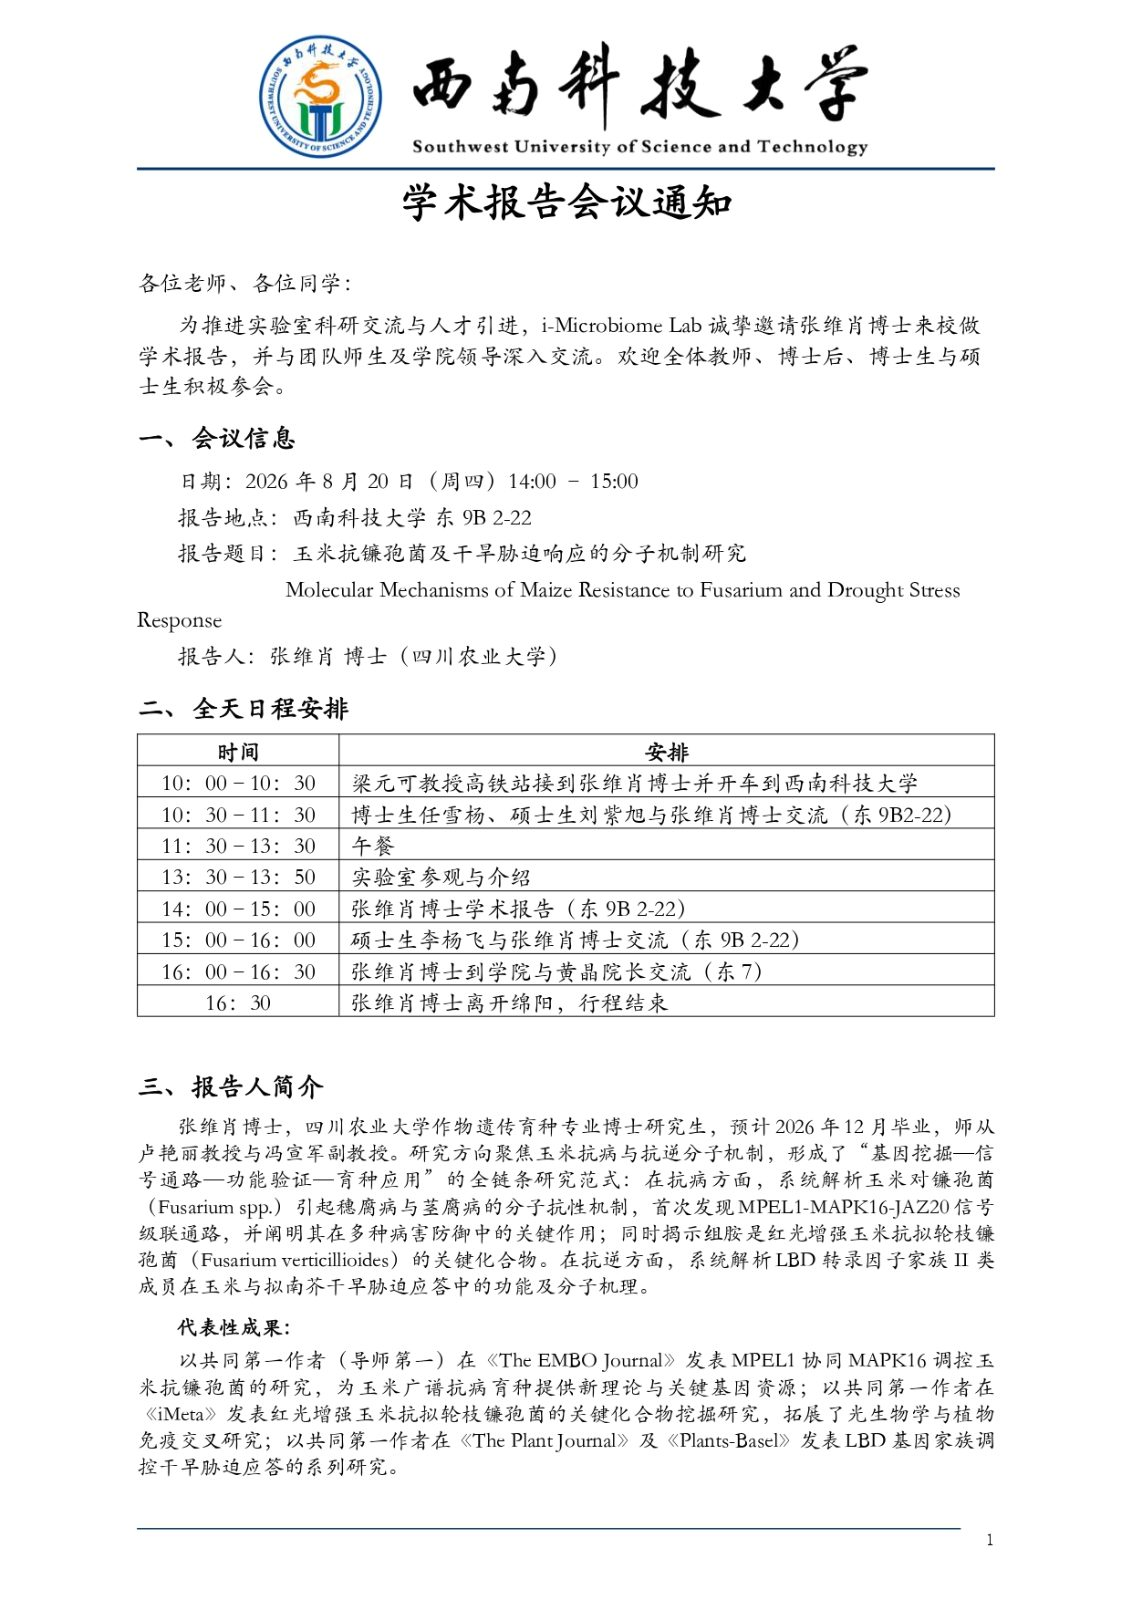
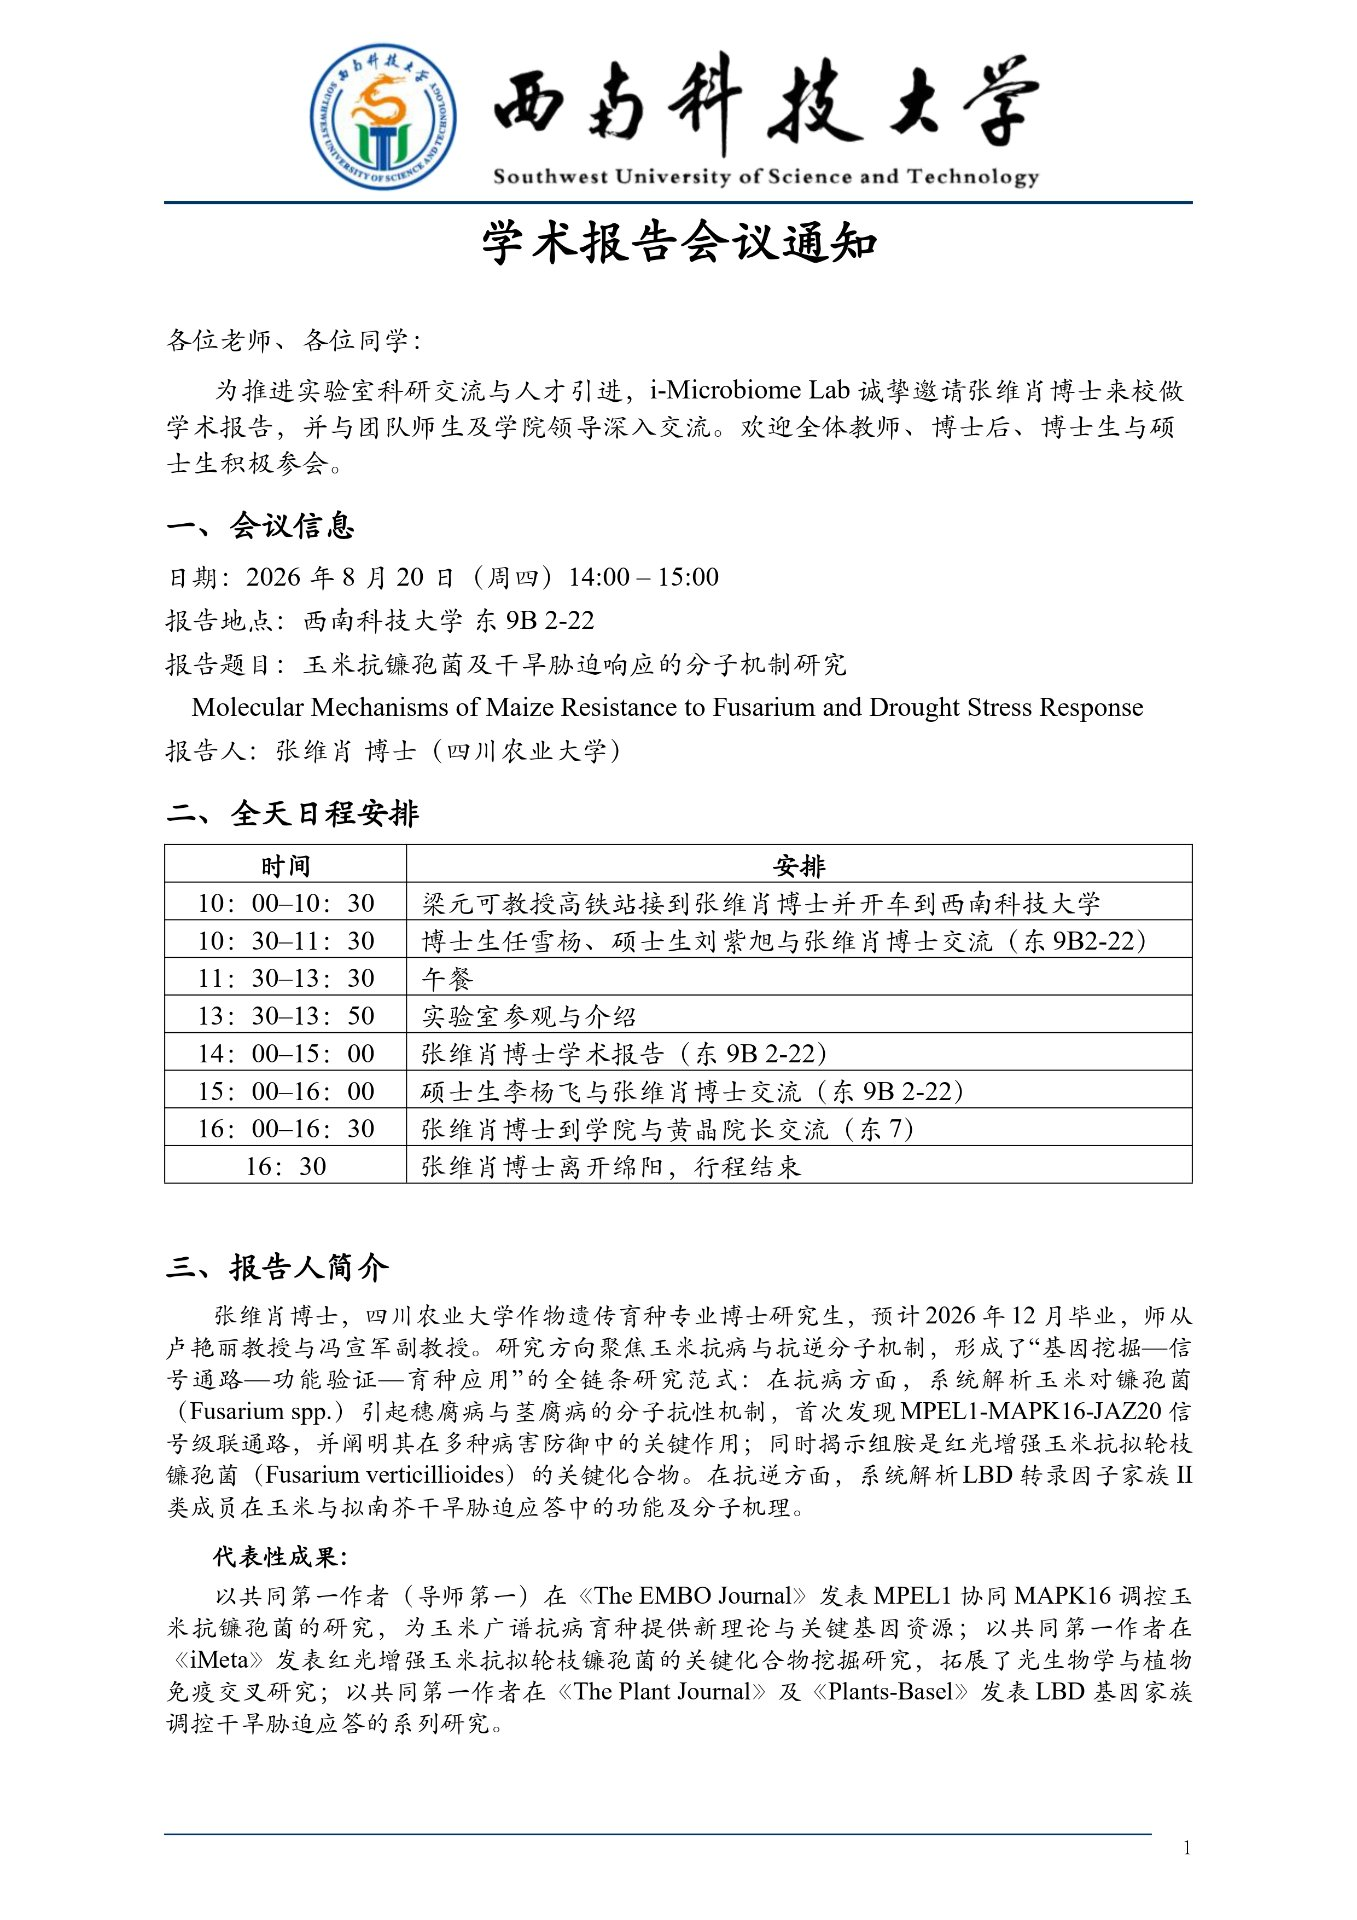
site: 替换张维肖博士学术报告通知图片（正确版），v20260806a

diff --git a/news/n-1785760692443.html b/news/n-1785760692443.html
@@ -8,7 +8,7 @@
 <meta property="og:site_name" content="智能微生态与生物制造实验室">
 <meta property="og:title" content="【学术预告】四川农业大学张维肖博士学术报告会">
 <meta property="og:description" content="一、活动主旨 为推进实验室科研交流与人才引进工作，i-Microbiome Lab 诚挚邀请四川农业大学张维肖博士来校开展学术报告，并与课题组师生、学院领导开展深度交流。诚邀全校教师、博士后、博士研究生与硕士研究生到场参会交流。 二、会议核…">
-<meta property="og:url" content="https://liang-lab.cn/news/n-1785760692443.html?v=20260806174840">
+<meta property="og:url" content="https://liang-lab.cn/news/n-1785760692443.html?v=20260806181145">
 <meta property="og:image" content="https://liang-lab.cn/images/news/n-1785760692443-1.jpg">
 <meta name="twitter:card" content="summary_large_image">
 <meta name="twitter:title" content="【学术预告】四川农业大学张维肖博士学术报告会">
@@ -104,7 +104,7 @@
     document.title=(l==="zh"?ZH_TITLE:EN_TITLE)+" | 智能微生态与生物制造实验室";
   }
   /* 自动给地址栏加版本参数：微信右上角分享时会按“新链接”重新抓取 OG 卡片，绕过微信对已缓存 404/旧版本的纯链接结果 */
-  (function(){var v="20260806174840";if(location.search.indexOf("v="+v)<0){var s=(location.search?location.search+"&":"?")+"v="+v;history.replaceState(null,"",location.pathname+s+location.hash);}})();
+  (function(){var v="20260806181145";if(location.search.indexOf("v="+v)<0){var s=(location.search?location.search+"&":"?")+"v="+v;history.replaceState(null,"",location.pathname+s+location.hash);}})();
   var savedLang=null;
   try{savedLang=localStorage.getItem(LK);}catch(e){}
   applyLang(savedLang||((navigator.language||"").toLowerCase().indexOf("zh")===0?"zh":"en"));
